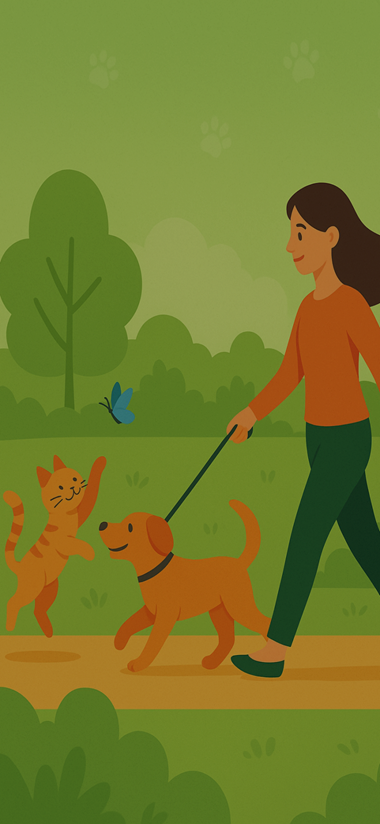
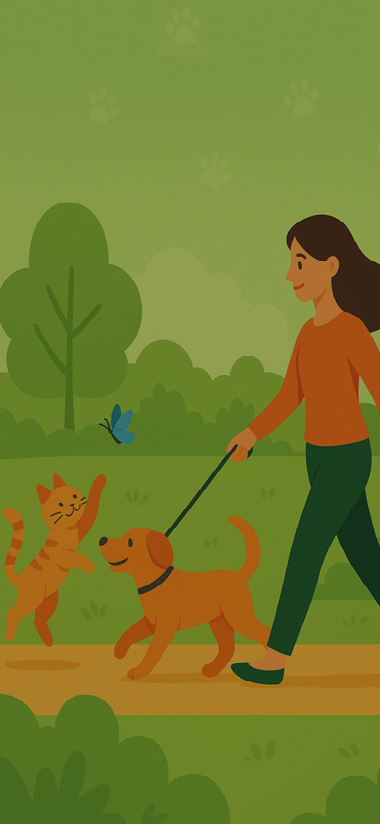
Ajustes de render

diff --git a/screens/Pro.js b/screens/Pro.js
@@ -103,7 +103,7 @@ export default class Pro extends React.Component {
                 style={{
                   marginTop: theme.SIZES.BASE * 1.5,
                   marginBottom: theme.SIZES.BASE * 4,
-                  height: 210,
+                  height: 261,
                 }}
               ></Block>
               <Button
